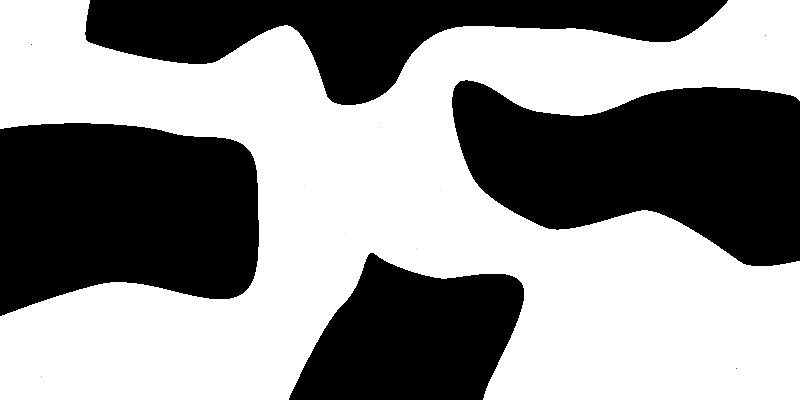
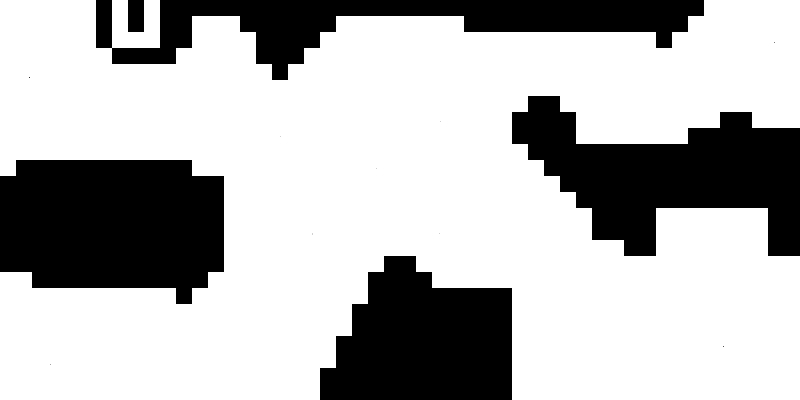
New map OK

diff --git a/src/GameEngine/MapManager.java b/src/GameEngine/MapManager.java
@@ -246,22 +246,26 @@ public class MapManager implements Serializable{
 	 */
 	private void generateRelief(){
 		//Intensity of the relief
-		int reliefDown = 10;
-		int reliefLeft = 4;
+		int reliefDown = 17;
+		int reliefLeft = 16;
+		int reliefRight = 16;
 		
 		for (int y = 0; y < heightMap.getHeight();y++){ 
 			for (int x = 0; x < heightMap.getWidth();x++){
 				if (heightMap.getPixel(x,y)==0){
 					
+					//Relief bottom
 					if(y<heightMap.getHeight()-1){
 						if (heightMap.getPixel(x,y+1)==5)
 						{
 							for (int i=1;i<reliefDown;i++){
-								if(y+i<heightMap.getHeight())
+								if((y+i)<heightMap.getHeight())
 									heightMap.setPixel(x,y+i,6);
 							}
 						}
 					}
+					
+					//Relief left
 					if (x>0){
 						if (heightMap.getPixel(x-1,y)==5)
 						{
@@ -272,6 +276,19 @@ public class MapManager implements Serializable{
 							}
 						}
 					}
+					
+					//Relief right
+					if (x<heightMap.getWidth()-1){
+						if (heightMap.getPixel(x+1,y)==5)
+						{
+							for (int i=1;i<reliefRight;i++)
+							{
+								if((x+i)<=heightMap.getWidth())
+									heightMap.setPixel(x+i,y,6);
+							}
+						}
+					}
+					
 				}
 			}
 		}

diff --git a/src/View/SceneView.java b/src/View/SceneView.java
@@ -66,7 +66,7 @@ public class SceneView extends MainViews{
 
 		//Loading the image map
 		try {
-		      map = ImageIO.read(new File("img/map/Map.jpg"));
+		      map = ImageIO.read(new File("img/map/MapView.png"));
 		  
 		} catch (IOException e) {
 		      e.printStackTrace();
@@ -380,7 +380,7 @@ public class SceneView extends MainViews{
 	public void addTowerSuccess(){
 		addTowerClicked = false;
 		//Display the simple map
-		setMap("img/map/Map.jpg");
+		setMap("img/map/MapView.png");
 		
 		//Set the tower Sprite clickable attribute to true
 		Iterator<Sprite> it = sprites.iterator();
@@ -403,7 +403,7 @@ public class SceneView extends MainViews{
 	public void addTowerFailed(){
 		addTowerClicked = false;
 		//Display the simple map
-		setMap("img/map/Map.jpg");
+		setMap("img/map/MapView.png");
 		
 		//Suppress the tower-to-add Sprite
 		Iterator<Sprite> it = sprites.iterator();
